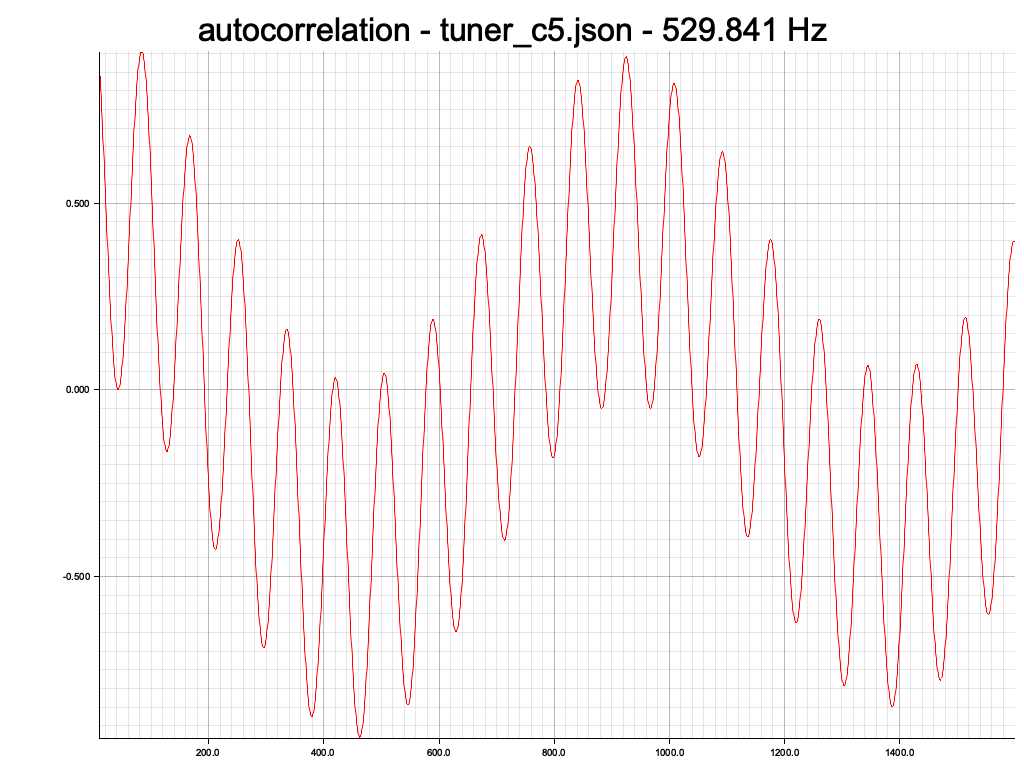
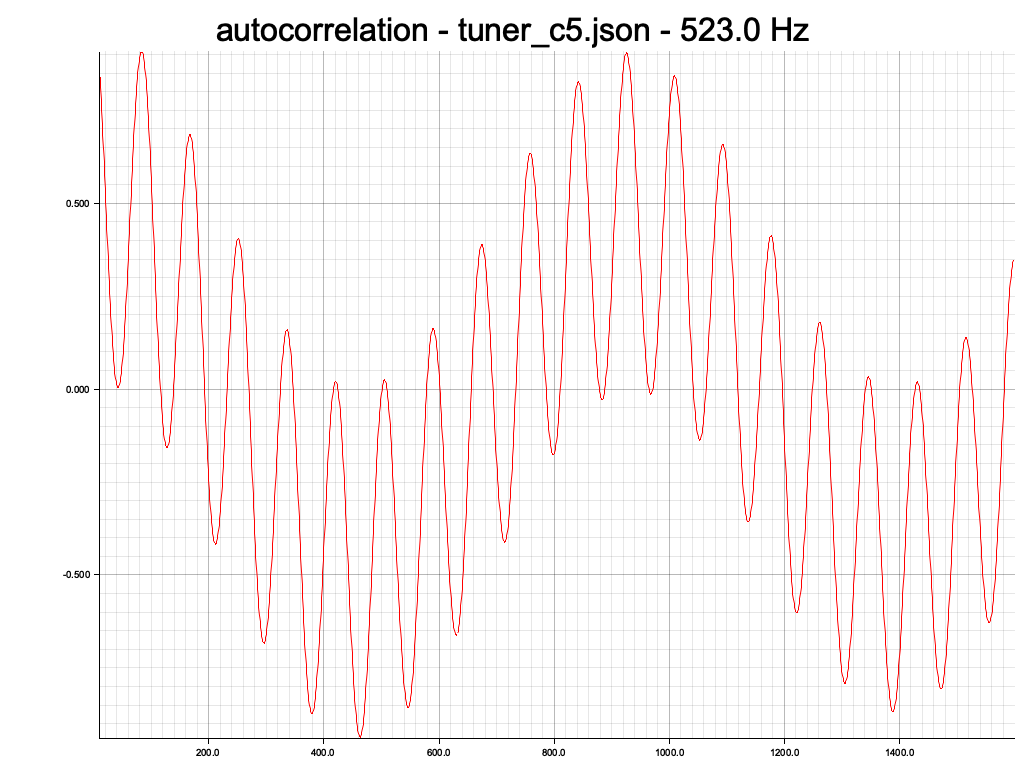
created detect unscaled freq api

diff --git a/src/frequency/autocorrelation.rs b/src/frequency/autocorrelation.rs
@@ -5,7 +5,7 @@ use crate::{
 use fitting::gaussian::fit;
 use rustfft::FftPlanner;
 
-use super::{FrequencyDetector, Partial};
+use super::{FftPoint, FrequencyDetector};
 
 struct AutocorrelationPeakIter<I: Iterator<Item = (usize, f64)>> {
     signal: I,
@@ -31,7 +31,7 @@ impl<I> Iterator for AutocorrelationPeakIter<I>
 where
     I: Iterator<Item = (usize, f64)>,
 {
-    type Item = Partial;
+    type Item = FftPoint;
 
     fn next(&mut self) -> Option<Self::Item> {
         let (x_vals, y_vals): (Vec<f64>, Vec<f64>) = self
@@ -48,9 +48,9 @@ where
 
         // mu, sigma, a
         if let Ok((mu, _, amplitude)) = fit(x_vals.into(), y_vals.into()) {
-            Some(Partial {
-                freq: mu,
-                intensity: amplitude,
+            Some(FftPoint {
+                x: mu,
+                y: amplitude,
             })
         } else {
             None
@@ -97,6 +97,22 @@ impl AutocorrelationDetector {
         let inverse_fft = planner.plan_fft_inverse(space.len());
         inverse_fft.process_with_scratch(space, scratch);
     }
+
+    fn detect_unscaled_freq<I: IntoIterator>(
+        signal: I,
+        sample_rate: f64,
+        fft_space: &mut FftSpace,
+    ) -> Option<FftPoint>
+    where
+        <I as IntoIterator>::Item: std::borrow::Borrow<f64>,
+    {
+        Self::process_fft(signal, fft_space);
+        Self::spectrum(fft_space, sample_rate)
+            .into_iter()
+            .skip_while(|(_, intensity)| *intensity > 0.001) // Skip the first slide down
+            .autocorrelation_peaks()
+            .reduce(|accum, point| if point.y > accum.y { point } else { accum })
+    }
 }
 
 impl FrequencyDetector for AutocorrelationDetector {
@@ -109,19 +125,8 @@ impl FrequencyDetector for AutocorrelationDetector {
     where
         <I as IntoIterator>::Item: std::borrow::Borrow<f64>,
     {
-        Self::process_fft(signal, fft_space);
-        Self::spectrum(fft_space, sample_rate)
-            .into_iter()
-            .skip_while(|(_, intensity)| *intensity > 0.001) // Skip the first slide down
-            .autocorrelation_peaks()
-            .reduce(|accum, partial| {
-                if partial.intensity > accum.intensity {
-                    partial
-                } else {
-                    accum
-                }
-            })
-            .map(|partial| sample_rate / partial.freq)
+        Self::detect_unscaled_freq(signal, sample_rate, fft_space)
+            .map(|partial| sample_rate / partial.x)
     }
 }
 
@@ -129,7 +134,7 @@ impl FrequencyDetector for AutocorrelationDetector {
 mod test_utils {
     use crate::{
         core::{constants::test_utils::AUTOCORRELATION_ALGORITHM, fft_space::FftSpace},
-        frequency::FrequencyDetectorTest,
+        frequency::{FftPoint, FrequencyDetectorTest},
     };
 
     use super::AutocorrelationDetector;
@@ -149,6 +154,18 @@ mod test_utils {
             );
             Self::process_fft(signal_iter, &mut fft_space);
             Self::spectrum(&fft_space, sample_rate).collect()
+        }
+
+        fn detect_unscaled_freq<I: IntoIterator>(
+            &mut self,
+            signal: I,
+            sample_rate: f64,
+            fft_space: &mut FftSpace,
+        ) -> Option<FftPoint>
+        where
+            <I as IntoIterator>::Item: std::borrow::Borrow<f64>,
+        {
+            Self::detect_unscaled_freq(signal, sample_rate, fft_space)
         }
 
         fn name(&self) -> &'static str {

diff --git a/src/frequency/raw_fft.rs b/src/frequency/raw_fft.rs
@@ -6,7 +6,7 @@ use crate::core::{
 use rustfft::FftPlanner;
 use std::borrow::Borrow;
 
-use super::{FrequencyDetector, Partial};
+use super::{FftPoint, FrequencyDetector};
 
 pub struct RawFftDetector;
 
@@ -47,6 +47,25 @@ impl RawFftDetector {
         let (space, scratch) = fft_space.workspace();
         fft.process_with_scratch(space, scratch);
     }
+
+    fn detect_unscaled_freq<I: IntoIterator>(
+        signal: I,
+        sample_rate: f64,
+        fft_space: &mut FftSpace,
+    ) -> Option<FftPoint>
+    where
+        <I as IntoIterator>::Item: std::borrow::Borrow<f64>,
+    {
+        Self::process_fft(signal, fft_space);
+        Self::spectrum(fft_space, sample_rate)
+            .into_iter()
+            .fft_peaks(40, 10.)
+            .reduce(|accum, item| if item.1 > accum.1 { item } else { accum })
+            .map(|item| FftPoint {
+                x: item.0,
+                y: item.1,
+            })
+    }
 }
 
 impl FrequencyDetector for RawFftDetector {
@@ -59,16 +78,8 @@ impl FrequencyDetector for RawFftDetector {
     where
         <I as IntoIterator>::Item: std::borrow::Borrow<f64>,
     {
-        Self::process_fft(signal, fft_space);
-        Self::spectrum(fft_space, sample_rate)
-            .into_iter()
-            .fft_peaks(40, 10.)
-            .reduce(|accum, item| if item.1 > accum.1 { item } else { accum })
-            .map(|item| Partial {
-                freq: item.0 * sample_rate / fft_space.len() as f64,
-                intensity: item.1,
-            })
-            .map(|partial| partial.freq)
+        Self::detect_unscaled_freq(signal, sample_rate, fft_space)
+            .map(|point| point.x * sample_rate / fft_space.len() as f64)
     }
 }
 
@@ -76,7 +87,7 @@ impl FrequencyDetector for RawFftDetector {
 mod test_utils {
     use crate::{
         core::{constants::test_utils::RAW_FFT_ALGORITHM, fft_space::FftSpace},
-        frequency::FrequencyDetectorTest,
+        frequency::{FftPoint, FrequencyDetectorTest},
     };
 
     use super::RawFftDetector;
@@ -96,6 +107,18 @@ mod test_utils {
             );
             Self::process_fft(signal_iter, &mut fft_space);
             Self::spectrum(&fft_space, sample_rate).collect()
+        }
+
+        fn detect_unscaled_freq<I: IntoIterator>(
+            &mut self,
+            signal: I,
+            sample_rate: f64,
+            fft_space: &mut FftSpace,
+        ) -> Option<FftPoint>
+        where
+            <I as IntoIterator>::Item: std::borrow::Borrow<f64>,
+        {
+            Self::detect_unscaled_freq(signal, sample_rate, fft_space)
         }
 
         fn name(&self) -> &'static str {

diff --git a/src/frequency/cepstrum.rs b/src/frequency/cepstrum.rs
@@ -5,7 +5,7 @@ use crate::core::{
 };
 use rustfft::{num_complex::Complex, FftPlanner};
 
-use super::{FrequencyDetector, Partial};
+use super::{FftPoint, FrequencyDetector};
 
 pub struct PowerCepstrum;
 impl PowerCepstrum {
@@ -44,15 +44,12 @@ impl PowerCepstrum {
         let inverse_fft = planner.plan_fft_inverse(space.len());
         inverse_fft.process_with_scratch(space, scratch);
     }
-}
 
-impl FrequencyDetector for PowerCepstrum {
-    fn detect_frequency_with_fft_space<I: IntoIterator>(
-        &mut self,
+    fn detect_unscaled_freq<I: IntoIterator>(
         signal: I,
         sample_rate: f64,
         fft_space: &mut FftSpace,
-    ) -> Option<f64>
+    ) -> Option<FftPoint>
     where
         <I as IntoIterator>::Item: std::borrow::Borrow<f64>,
     {
@@ -67,11 +64,25 @@ impl FrequencyDetector for PowerCepstrum {
                     accum
                 }
             })
-            .map(|(mu, amplitude)| Partial {
-                freq: sample_rate / mu,
-                intensity: amplitude,
+            .map(|(mu, amplitude)| FftPoint {
+                x: mu,
+                y: amplitude,
             })
-            .map(|partial| partial.freq)
+    }
+}
+
+impl FrequencyDetector for PowerCepstrum {
+    fn detect_frequency_with_fft_space<I: IntoIterator>(
+        &mut self,
+        signal: I,
+        sample_rate: f64,
+        fft_space: &mut FftSpace,
+    ) -> Option<f64>
+    where
+        <I as IntoIterator>::Item: std::borrow::Borrow<f64>,
+    {
+        Self::detect_unscaled_freq(signal, sample_rate, fft_space)
+            .map(|point| sample_rate / point.x)
     }
 }
 
@@ -79,7 +90,7 @@ impl FrequencyDetector for PowerCepstrum {
 mod test_utils {
     use crate::{
         core::{constants::test_utils::POWER_CEPSTRUM_ALGORITHM, fft_space::FftSpace},
-        frequency::FrequencyDetectorTest,
+        frequency::{FftPoint, FrequencyDetectorTest},
     };
 
     use super::PowerCepstrum;
@@ -99,6 +110,18 @@ mod test_utils {
             );
             Self::process_fft(signal_iter, &mut fft_space);
             Self::spectrum(&fft_space, sample_rate).collect()
+        }
+
+        fn detect_unscaled_freq<I: IntoIterator>(
+            &mut self,
+            signal: I,
+            sample_rate: f64,
+            fft_space: &mut FftSpace,
+        ) -> Option<FftPoint>
+        where
+            <I as IntoIterator>::Item: std::borrow::Borrow<f64>,
+        {
+            Self::detect_unscaled_freq(signal, sample_rate, fft_space)
         }
 
         fn name(&self) -> &'static str {

diff --git a/examples/spectrum_plot.rs b/examples/spectrum_plot.rs
@@ -6,23 +6,23 @@ use freq_detector::{
 };
 use plotters::prelude::*;
 
-fn plot<D: FrequencyDetector + FrequencyDetectorTest>(
-    detector: &D,
-    samples_file: &str,
-    expected_freq: f64,
-) -> anyhow::Result<()> {
+fn plot<D, I>(detector: &D, signal: I, plot_name: &str, expected_freq: f64) -> anyhow::Result<()>
+where
+    I: IntoIterator,
+    <I as IntoIterator>::Item: std::borrow::Borrow<f64>,
+    D: FrequencyDetector + FrequencyDetectorTest,
+{
     let plot_title = format!(
         "{} - {} - {:?} Hz",
         detector.name(),
-        samples_file,
+        plot_name,
         expected_freq
     );
     let output_file = format!(
         "{}/test_data/results/{}.png",
         env!("CARGO_MANIFEST_DIR"),
-        format!("{} - {}", detector.name(), samples_file)
+        format!("{} - {}", detector.name(), plot_name)
     );
-    let signal = test_signal(samples_file)?;
     let (x_vals, y_vals): (Vec<f64>, Vec<f64>) = detector
         .spectrum(signal, 44000.)
         .iter()
@@ -55,7 +55,19 @@ fn plot<D: FrequencyDetector + FrequencyDetectorTest>(
     Ok(())
 }
 fn main() -> anyhow::Result<()> {
+    let test_files = [
+        "cello_open_a.json",
+        "cello_open_c.json",
+        "cello_open_g.json",
+        "cello_open_c.json",
+        "tuner_c5.json",
+    ];
     let mut detector = AutocorrelationDetector;
-    plot(&mut detector, "tuner_c5.json", 523.)?;
+    plot(
+        &mut detector,
+        test_signal("tuner_c5.json")?,
+        "tuner_c5",
+        523.,
+    )?;
     Ok(())
 }

diff --git a/src/frequency.rs b/src/frequency.rs
@@ -32,17 +32,14 @@ pub trait FrequencyDetector {
 }
 
 #[derive(Debug, Clone, PartialEq, PartialOrd)]
-pub struct Partial {
-    pub freq: f64,
-    pub intensity: f64,
+pub struct FftPoint {
+    pub x: f64,
+    pub y: f64,
 }
 
-impl Default for Partial {
+impl Default for FftPoint {
     fn default() -> Self {
-        Self {
-            freq: 0.0,
-            intensity: 0.0,
-        }
+        Self { x: 0.0, y: 0.0 }
     }
 }
 
@@ -52,5 +49,13 @@ pub trait FrequencyDetectorTest {
     where
         <I as IntoIterator>::Item: std::borrow::Borrow<f64>,
         I: IntoIterator + 'a;
+    fn detect_unscaled_freq<I: IntoIterator>(
+        &mut self,
+        signal: I,
+        sample_rate: f64,
+        fft_space: &mut FftSpace,
+    ) -> Option<FftPoint>
+    where
+        <I as IntoIterator>::Item: std::borrow::Borrow<f64>;
     fn name(&self) -> &'static str;
 }
